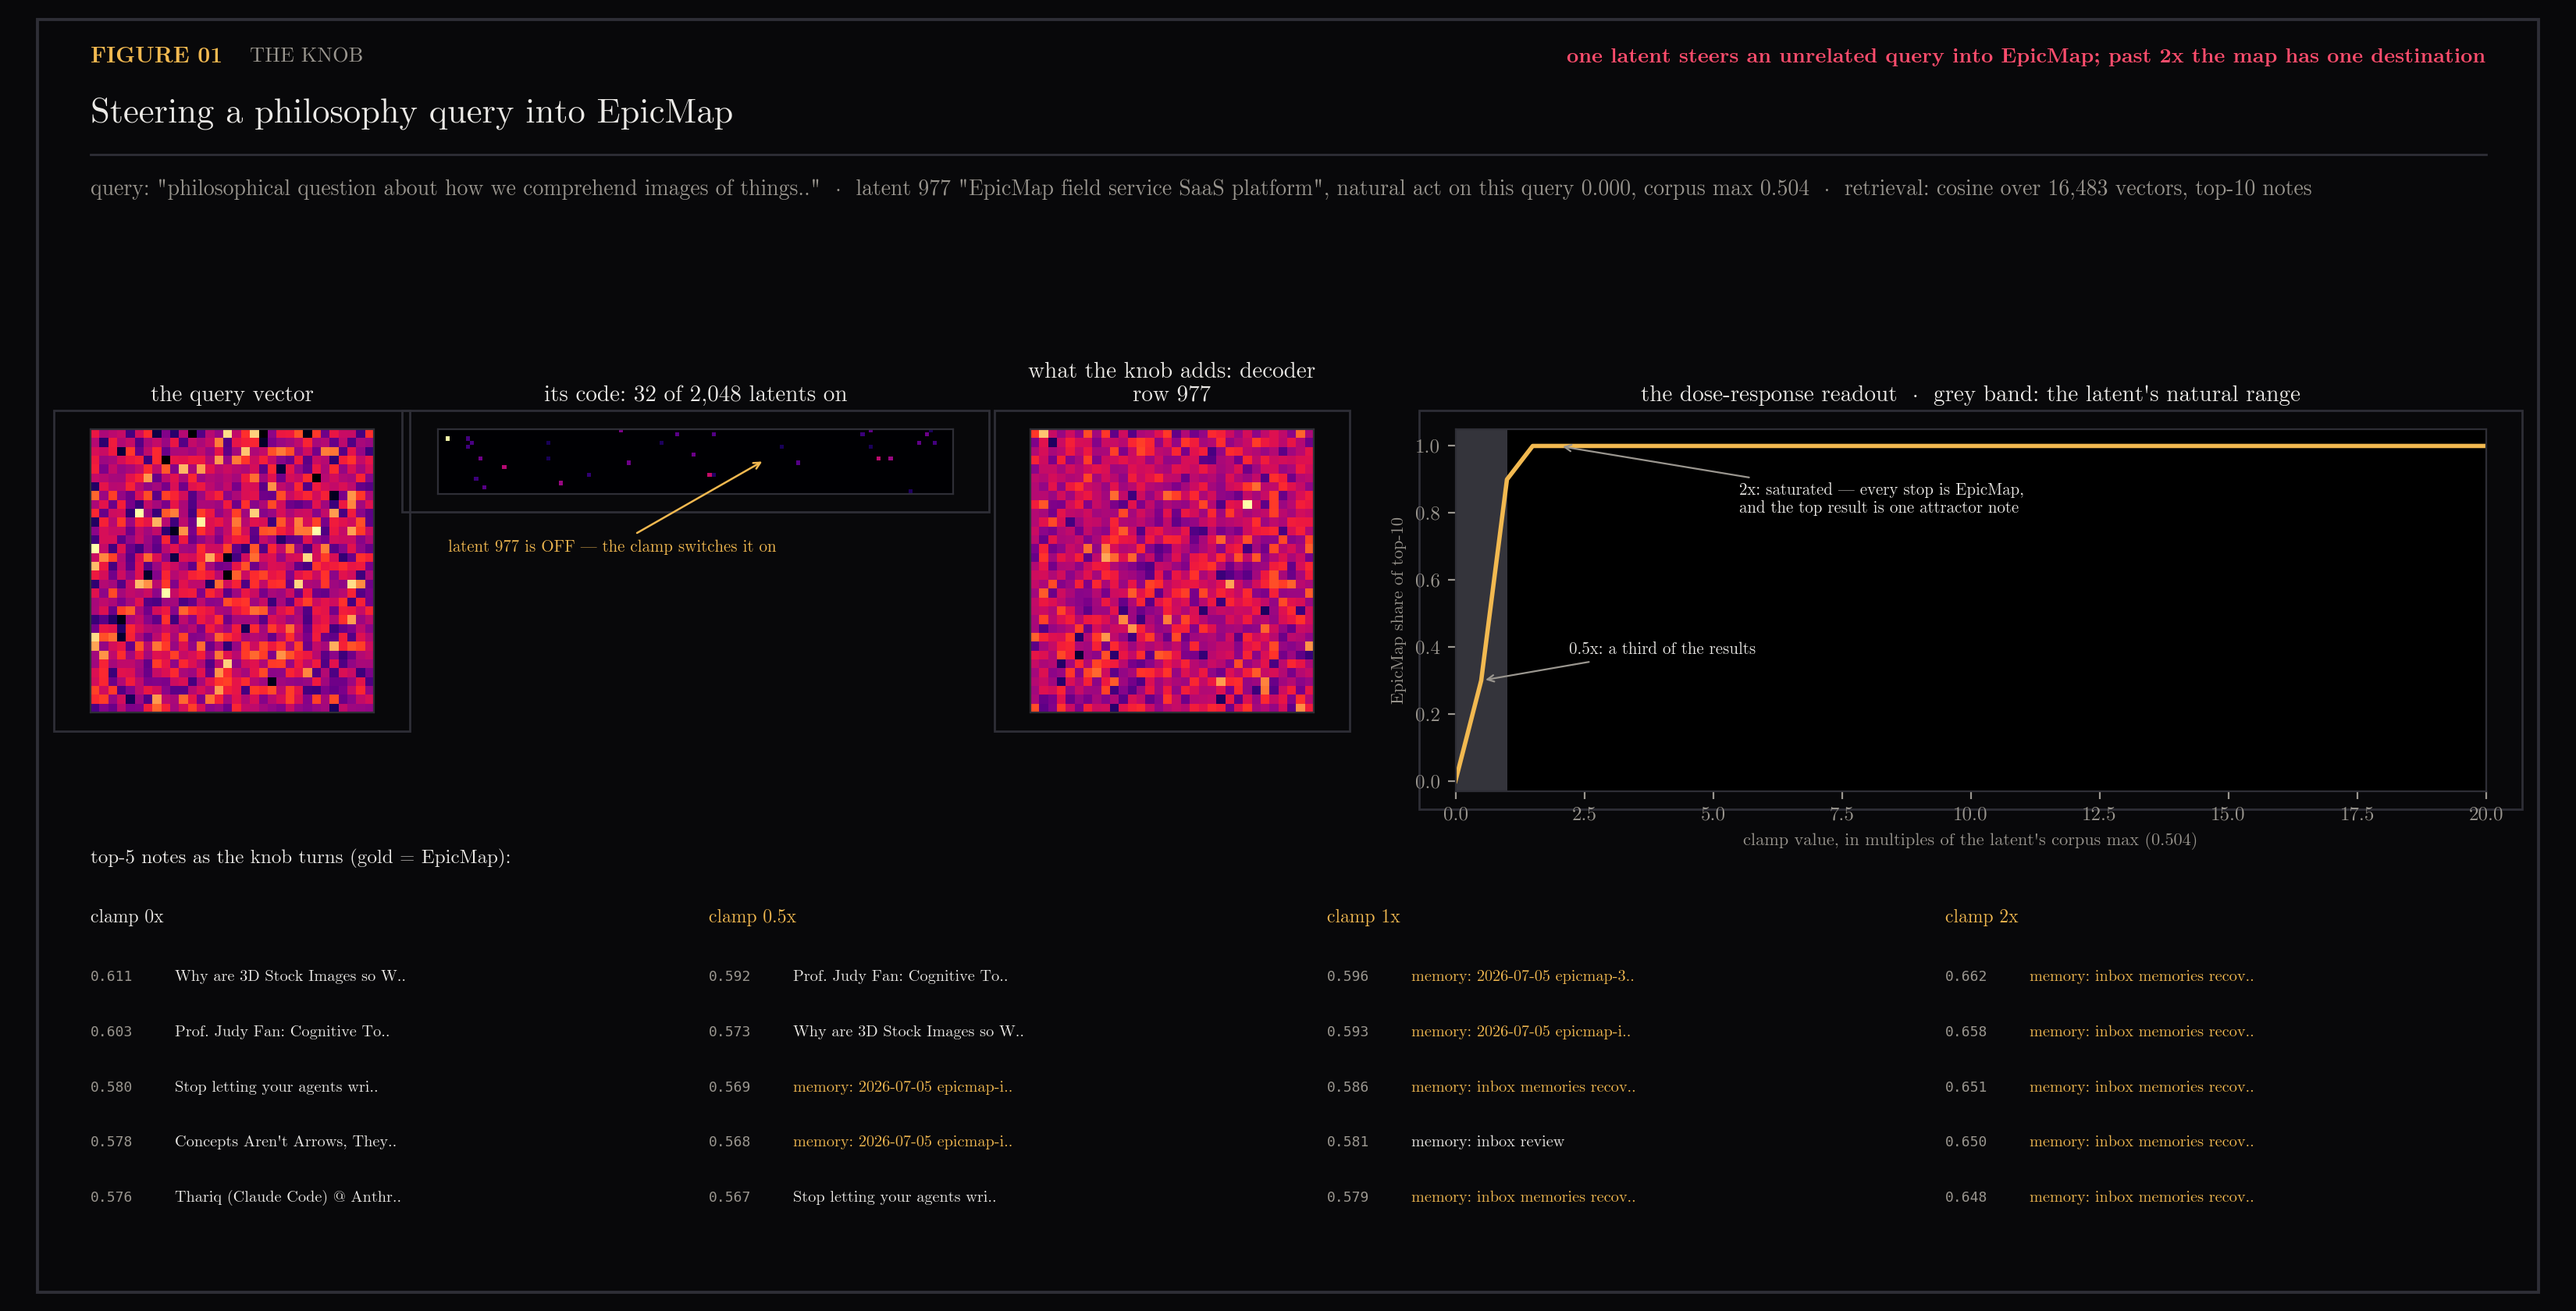
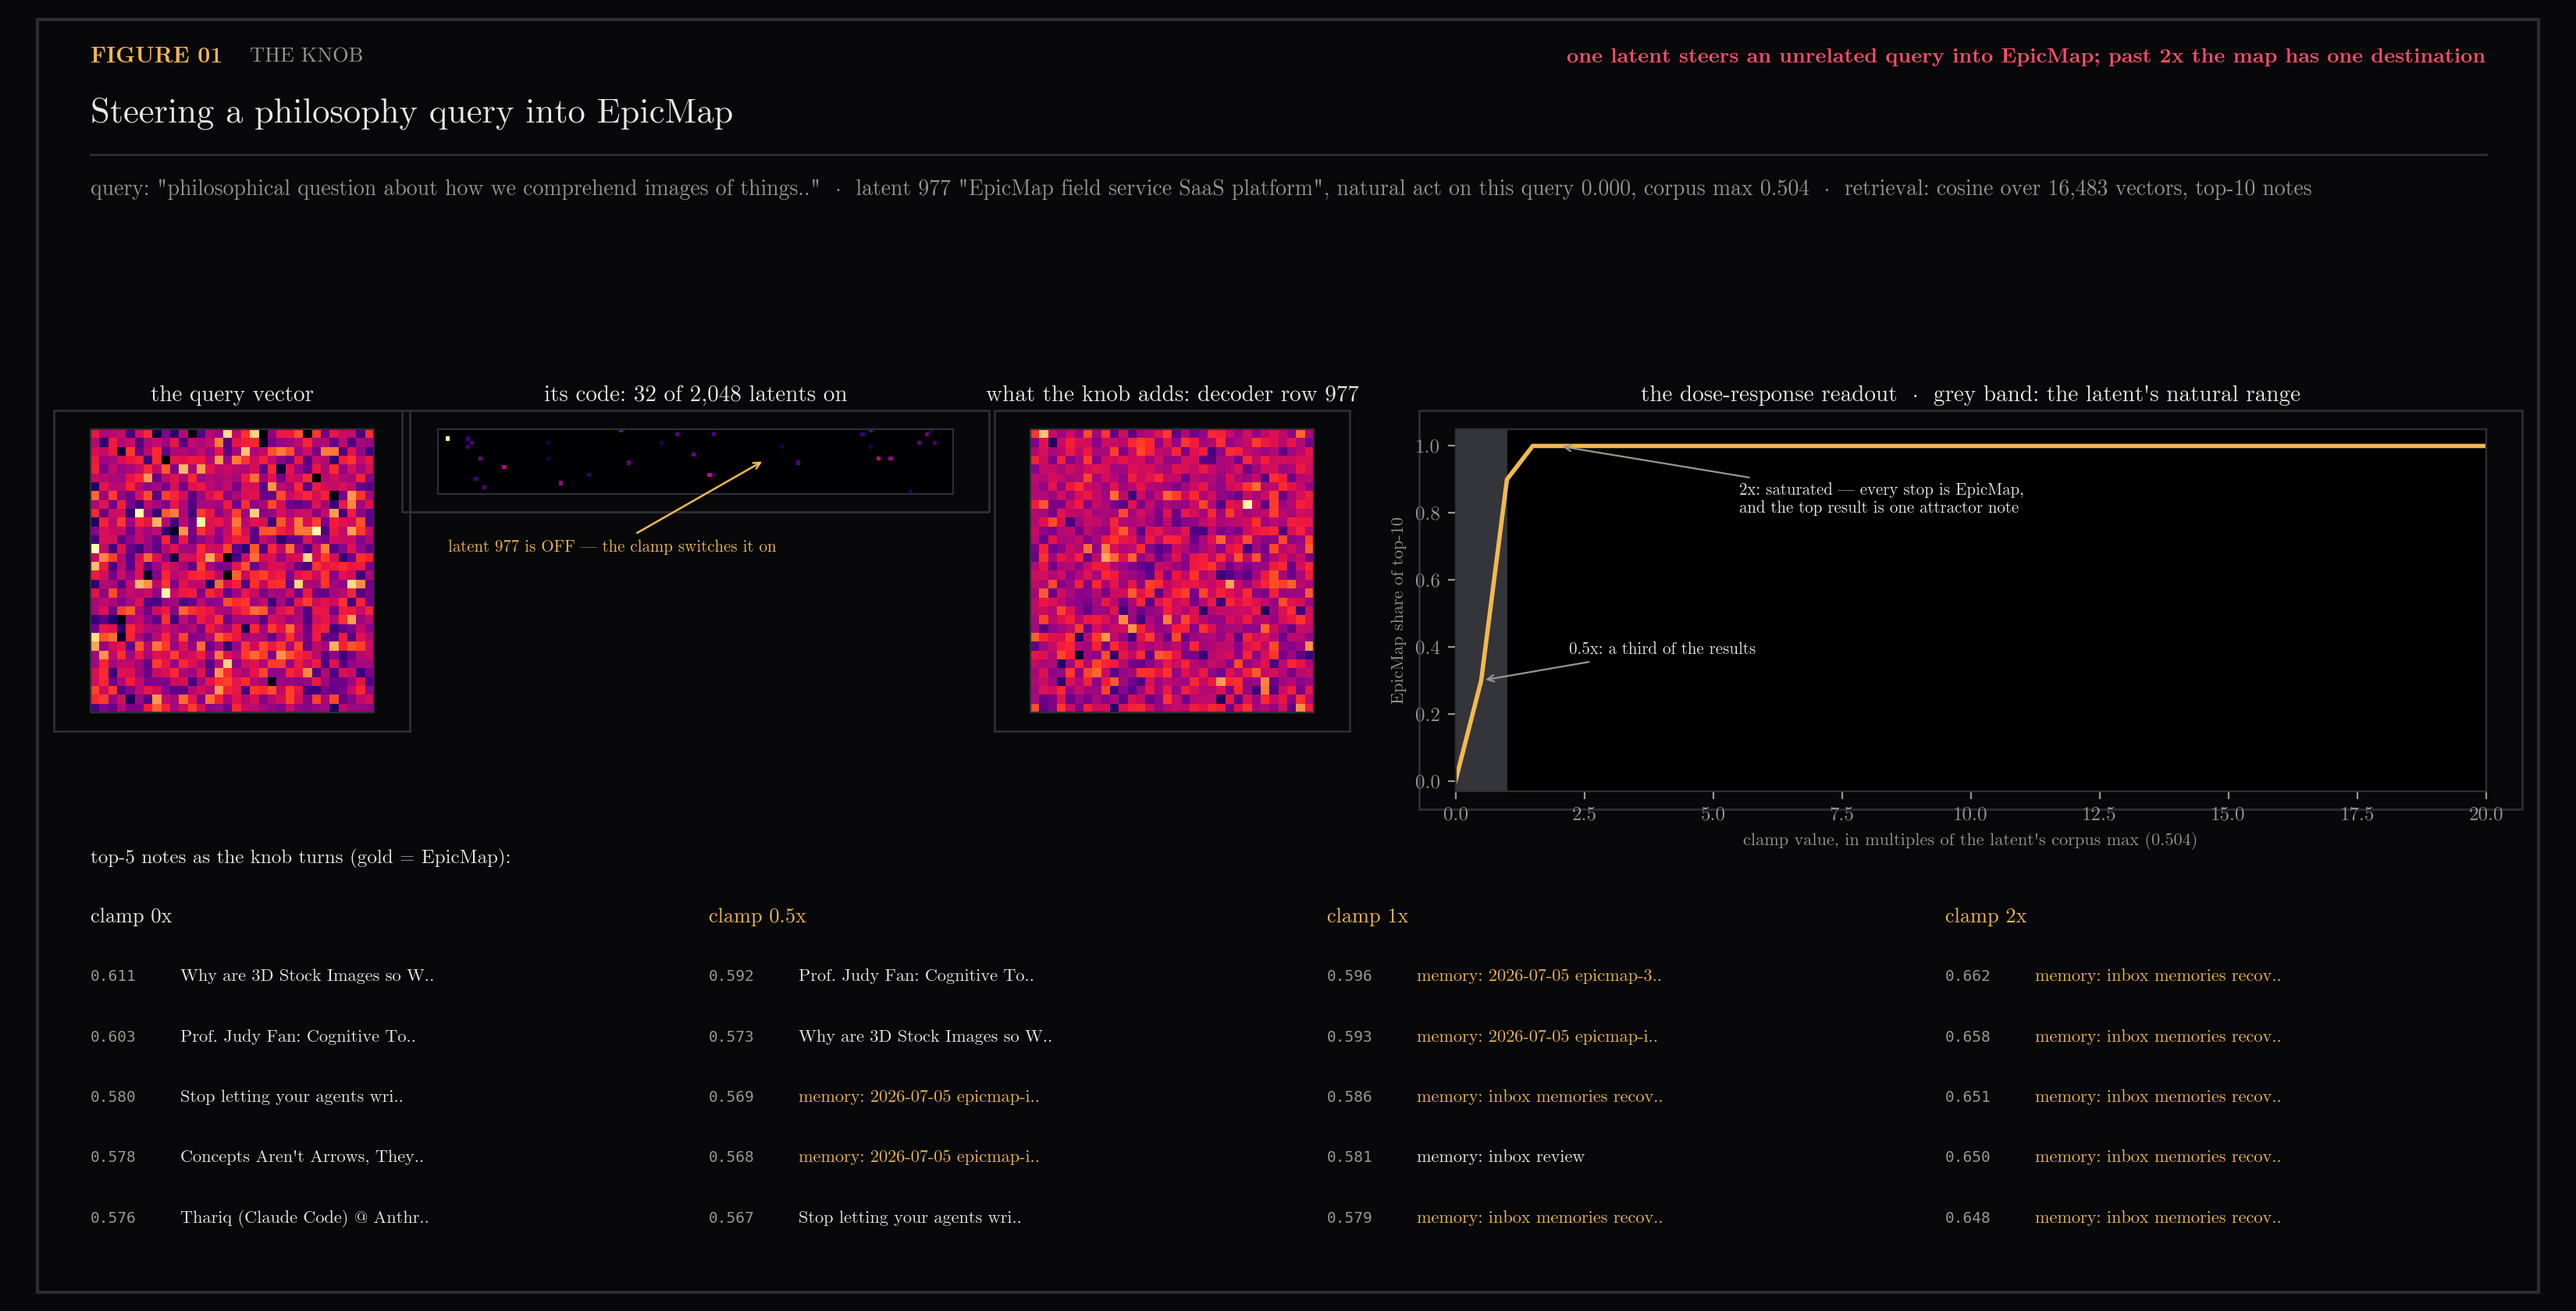
fix(35): legibility pass to the figure-04 bar — full names, colorbar, spacing
Figure 03 rebuilt: feature names were truncated mid-word in panel titles
and the explainer text was near-unreadable. Now each pair gets a header
with both full auto-names and the cosine; image panels carry only their
row ids; a horizontal shared-scale colorbar sits under the image pair
instead of colliding with the scatter's y-axis; the scatter gains a
labeled y=-x reference line, symmetric limits, and readable axis labels;
per-pair story text wrapped at readable size. Height 10.4 so the bottom
row's x-label clears the figure frame (verified by cropping the rendered
strip, not by eyeballing the thumbnail).

Figures 01/02: retrieval lists and clamp headers upsized, decoder-row
title no longer wraps mid-word, ladder labels and closing text raised to
the same size floor.

diff --git a/scripts/plot_the_knob.py b/scripts/plot_the_knob.py
@@ -169,8 +169,8 @@ def draw_list(fig, x, y, items, rig, width=34, gold_epic=True):
         row = rig.rows[i]
         col = GOLD if (gold_epic and rig.epic[i]) else TEXT
         title = short(pretty(row), width)
-        fig.text(x, y - r * 0.042, f"{s:.3f}", color=MUTED, fontsize=6.5, family="monospace")
-        fig.text(x + 0.033, y - r * 0.042, title, color=col, fontsize=7.3)
+        fig.text(x, y - r * 0.046, f"{s:.3f}", color=MUTED, fontsize=7, family="monospace")
+        fig.text(x + 0.035, y - r * 0.046, title, color=col, fontsize=8)
 
 
 # ---------------------------------------------------------------- figure 01
@@ -241,7 +241,7 @@ def fig01(rig):
         vmax=np.abs(Wrow).max(),
         interpolation="nearest",
     )
-    panel_title(a3, f"what the knob adds: decoder row {LAT}", 30)
+    panel_title(a3, f"what the knob adds: decoder row {LAT}", 44)
 
     axc = fig.add_axes([MARGIN + 0.53, y_top - h1 - 0.06, 0.40, h1 + 0.06])
     style_axes(axc)
@@ -281,7 +281,7 @@ def fig01(rig):
     )
     for j, c in enumerate([0.0, 0.5, 1.0, 2.0]):
         x = MARGIN + j * 0.24
-        fig.text(x, y_l, f"clamp {c:g}x", color=GOLD if c else TEXT, fontsize=8.5)
+        fig.text(x, y_l, f"clamp {c:g}x", color=GOLD if c else TEXT, fontsize=9.5)
         draw_list(fig, x, y_l - 0.045, rig.top_notes(clamp(c), 5), rig, width=30)
 
     verdict(
@@ -358,7 +358,7 @@ def fig02(rig):
     axb.barh(ys, shares, height=0.55, color=[DIM, GOLD, GOLD, GOLD])
     axb.axvline(shares[0], color=RED, lw=1.2, ls="--")
     for y, (label, _), s in zip(ys, ladder, shares):
-        axb.text(0.02, y, label, color=TEXT, fontsize=8, va="center")
+        axb.text(0.02, y, label, color=TEXT, fontsize=8.8, va="center")
         axb.text(s + 0.02, y, f"{s:.1f}", color=MUTED, fontsize=8, va="center")
     axb.set_yticks([])
     axb.set_xlim(0, 1.12)
@@ -383,8 +383,8 @@ def fig02(rig):
         "changes nothing. the query's remaining code still points at the same territory: the concept is a\n"
         "direction the code redundantly encodes, not a single address you can remove. steering is asymmetric.",
         color=MUTED,
-        fontsize=9,
-        linespacing=1.6,
+        fontsize=9.5,
+        linespacing=1.7,
     )
 
     verdict(fig, "adding the concept takes one knob; removing it survives losing all eight loudest")
@@ -411,48 +411,80 @@ def fig03(rig):
         key=lambda ab: C[ab[0], ab[1]],
     )[:2]
 
+    import textwrap
+
     meta = (
         "decoder rows of the 31 always-on Gemma-Scope cone features (21-geometry/cone-decoder.npz), 2304-dim as 48x48  ·  "
-        "pixel order per pair: dims sorted by the first row's values  ·  scatter: one dot per dimension"
+        "pixel order per pair: dims sorted by the first row's values  ·  scatter: one dot per dimension  ·  shared colour scale"
     )
-    fig, top = figure(16.5, 9.2, 3, "the knob", "Opposite knobs, finally visible", meta)
+    fig, top = figure(16.5, 10.4, 3, "the knob", "Opposite knobs, finally visible", meta)
 
-    y_top = top - 0.09
+    def name_of(j) -> str:
+        return cone_names.get(int(idx[j]), "?").rstrip(". \n")
+
+    lim = float(np.percentile(np.abs(W[[j for p in pairs for j in p]]), 99.5))
+    y_top = top - 0.05
+    cmap = saturated_magma()
+    im = None
     for row, (a, b) in enumerate(pairs):
         cval = float(C[a, b])
         order = np.argsort(-W[a])
-        y = y_top - row * 0.40
-        lim = float(np.percentile(np.abs(W[[a, b]]), 99.5))
+        y = y_top - row * 0.45
+        header = f'{idx[a]} "{name_of(a)}"   vs   {idx[b]} "{name_of(b)}"   ·   cos = {cval:.3f}'
+        fig.text(MARGIN, y + 0.012, header, color=TEXT, fontsize=10.5)
         for col, j in ((0, a), (1, b)):
-            ax, h = sq_axes(fig, MARGIN + col * 0.155, y, 0.13)
-            ax.imshow(
+            ax, h = sq_axes(fig, MARGIN + col * 0.165, y - 0.03, 0.145)
+            im = ax.imshow(
                 W[j][order].reshape(48, 48),
-                cmap=saturated_magma(),
+                cmap=cmap,
                 vmin=-lim,
                 vmax=lim,
                 interpolation="nearest",
             )
-            nm = cone_names.get(int(idx[j]), "?")
-            panel_title(ax, f"{idx[j]}: {short(nm, 34)}", 36)
-        axs = fig.add_axes([MARGIN + 0.345, y - h, h * fig.get_figheight() / fig.get_figwidth(), h])
+            ax.set_title(f"decoder row {idx[j]}", color=MUTED, fontsize=8.5, pad=5)
+        side = h * fig.get_figheight() / fig.get_figwidth()
+        axs = fig.add_axes([MARGIN + 0.375, y - 0.03 - h, side, h])
         style_axes(axs)
-        axs.scatter(W[a], W[b], s=2, color=GOLD, alpha=0.5, lw=0)
+        rng = float(np.abs(W[[a, b]]).max()) * 1.05
+        axs.plot([-rng, rng], [rng, -rng], color=MUTED, lw=0.9, ls="--", zorder=1)
+        axs.scatter(W[a], W[b], s=3, color=GOLD, alpha=0.55, lw=0, zorder=2)
         axs.axhline(0, color=FRAME, lw=0.7)
         axs.axvline(0, color=FRAME, lw=0.7)
-        axs.set_xlabel(f"coord in {idx[a]}", color=MUTED, fontsize=7.5)
-        axs.set_ylabel(f"coord in {idx[b]}", color=MUTED, fontsize=7.5)
-        panel_title(axs, f"cos = {cval:.3f}", 20)
-        fig.text(
-            MARGIN + 0.60,
-            y - 0.02,
-            f'every dimension that pushes toward "{short(cone_names.get(int(idx[a]), "?"), 34)}"\n'
-            f'pulls away from "{short(cone_names.get(int(idx[b]), "?"), 34)}" — one axis, two names,\n'
-            "the digon geometry from Toy Models of Superposition, in a production dictionary.",
+        axs.set_xlim(-rng, rng)
+        axs.set_ylim(-rng, rng)
+        axs.tick_params(labelsize=7)
+        axs.set_xlabel(f"the dimension's weight in {idx[a]}", color=MUTED, fontsize=8.5)
+        axs.set_ylabel(f"its weight in {idx[b]}", color=MUTED, fontsize=8.5)
+        axs.set_title(
+            "one dot per dimension  ·  dashed: exact opposition (y = -x)",
             color=MUTED,
             fontsize=8.5,
-            linespacing=1.6,
+            pad=5,
+        )
+        story = (
+            f'every dimension that pushes toward "{name_of(a)}" pulls away from '
+            f'"{name_of(b)}" by the same amount — one direction in the space, two names '
+            "at its two ends. this is the digon geometry from Toy Models of Superposition, "
+            "sitting in a production dictionary."
+        )
+        fig.text(
+            MARGIN + 0.60,
+            y - 0.045,
+            "\n".join(textwrap.wrap(story, 52)),
+            color=MUTED,
+            fontsize=9.5,
+            linespacing=1.7,
             va="top",
         )
+
+    cax = fig.add_axes([MARGIN, y_top - 0.03 - h - 0.045, 0.31, 0.011])
+    cax._is_colorbar = True
+    cb = fig.colorbar(im, cax=cax, orientation="horizontal")
+    cb.outline.set_edgecolor(FRAME)
+    cax.tick_params(colors=MUTED, labelsize=6.5)
+    cax.set_xlabel(
+        "decoder weight (shared scale, all four images)", color=MUTED, fontsize=7.5, labelpad=2
+    )
 
     verdict(fig, "cos -0.99: the dictionary spends one direction on two opposite concepts")
     save(fig, "03-opposite-knobs.png")
